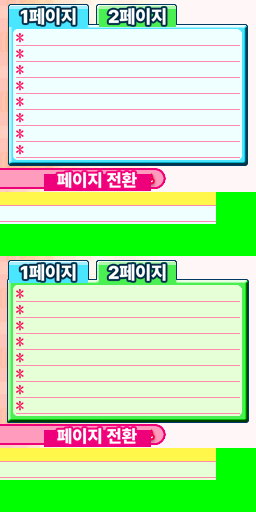
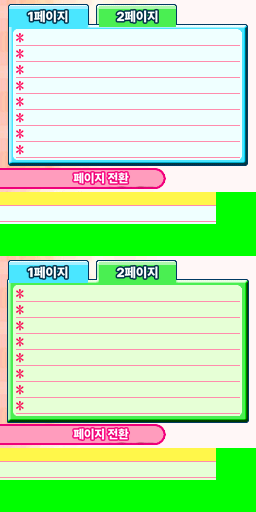
Image patch recreate

diff --git a/webtool/server_py/routes/files.py b/webtool/server_py/routes/files.py
@@ -413,6 +413,18 @@ def resolve_in_unpack(name, rel):
     return resolved
 
 
+def resolve_in_origin(name, rel):
+    """Same path-traversal-guarded resolution as resolve_in_unpack(), but
+    rooted at proj.origin_dir() - use this for browsing/preview so the tree
+    and raw decode always reflect the pristine ROM, never whatever the
+    upload/patch-sync write paths may have left in unpack_dir()."""
+    root = proj.origin_dir(name)
+    resolved = os.path.abspath(os.path.join(root, rel or ""))
+    if resolved != root and not resolved.startswith(root + os.sep):
+        raise ValueError("잘못된 경로입니다")
+    return resolved
+
+
 def get_all_patch_files():
     patch_dir = os.path.join(proj.REPO_ROOT, "image_patch")
     if not os.path.exists(patch_dir):
@@ -477,7 +489,7 @@ def tree():
         return jsonify({"error": "name은 필수입니다"}), 400
 
     try:
-        target = resolve_in_unpack(name, dir_)
+        target = resolve_in_origin(name, dir_)
         if not os.path.exists(target):
             return jsonify({"error": "디렉터리를 찾을 수 없습니다"}), 404
 
@@ -528,7 +540,7 @@ def raw():
             return send_file(patch_dict[patch_rel], mimetype="image/png")
 
         ext = os.path.splitext(rel_path)[1].lower()
-        target = resolve_in_unpack(name, rel_path)
+        target = resolve_in_origin(name, rel_path)
         if not os.path.exists(target):
             return jsonify({"error": "파일을 찾을 수 없습니다"}), 404
 
@@ -588,6 +600,19 @@ def raw():
                     with open(s2_path, "rb") as f:
                         s2_raw = f.read()
                     png = decode_soundmode_b_composite(tile_buf, pal_buf, screen_buf, s2_raw)
+                elif target_fname == "load_save_b_bg_page01c.bin":
+                    # Render composite: page01s/02s/03s (256x256 each) + fileselect01s (256x640) stacked
+                    screen_dir = os.path.dirname(resolved["screenPath"])
+                    s2_path = os.path.join(screen_dir, "load_save_b_bg_page02s.bin")
+                    s3_path = os.path.join(screen_dir, "load_save_b_bg_page03s.bin")
+                    s4_path = os.path.join(screen_dir, "load_save_b_bg_fileselect01s.bin")
+                    with open(s2_path, "rb") as f:
+                        s2_raw = f.read()
+                    with open(s3_path, "rb") as f:
+                        s3_raw = f.read()
+                    with open(s4_path, "rb") as f:
+                        s4_raw = f.read()
+                    png = decode_load_save_b_composite(tile_buf, pal_buf, screen_buf, s2_raw, s3_raw, s4_raw)
                 else:
                     n_entries = len(nbfc_image.load_screen(screen_buf))
                     width_override = known_width_override(os.path.basename(target), n_entries)
@@ -645,6 +670,13 @@ def upload_image():
         elif target_fname == "soundmode_b_bg_soundmode_b01c.bin":
             s2_path = os.path.join(os.path.dirname(resolved["screenPath"]), "soundmode_b_bg_soundmode_b02s.bin")
             tile_count = pack_soundmode_b(file.read(), target, resolved["palettePath"], resolved["screenPath"], s2_path)
+            return jsonify({"tileCount": tile_count})
+        elif target_fname == "load_save_b_bg_page01c.bin":
+            screen_dir = os.path.dirname(resolved["screenPath"])
+            s2_path = os.path.join(screen_dir, "load_save_b_bg_page02s.bin")
+            s3_path = os.path.join(screen_dir, "load_save_b_bg_page03s.bin")
+            s4_path = os.path.join(screen_dir, "load_save_b_bg_fileselect01s.bin")
+            tile_count = pack_load_save_b(file.read(), target, resolved["palettePath"], resolved["screenPath"], s2_path, s3_path, s4_path)
             return jsonify({"tileCount": tile_count})
 
         if resolved["mode"] != "full":
@@ -1454,6 +1486,98 @@ def pack_soundmode_b(png_bytes, target_path, pal_path, s1_path, s2_path):
     return len(tiles)
 
 
+def decode_load_save_b_composite(tile_buf, pal_buf, s1_buf, s2_buf, s3_buf, s4_buf):
+    """load_save_b_bg_page01c.bin's tileset is shared by FOUR screenmaps:
+    page01s/02s/03s (each a full 256x256 tab state - 1/2/3페이지 active) plus
+    fileselect01s (a taller 256x640 scrolling save-slot list with no baked-in
+    text). Stack all four vertically into one preview/edit canvas - the
+    inverse of pack_load_save_b."""
+    pngs = [
+        nbfc_image.decode_tilemap_png(tile_buf, pal_buf, s1_buf),
+        nbfc_image.decode_tilemap_png(tile_buf, pal_buf, s2_buf),
+        nbfc_image.decode_tilemap_png(tile_buf, pal_buf, s3_buf),
+        nbfc_image.decode_tilemap_png(tile_buf, pal_buf, s4_buf),
+    ]
+    ims = [Image.open(io.BytesIO(p)).convert("RGBA") for p in pngs]
+    total_h = sum(im.height for im in ims)
+    comp = Image.new("RGBA", (256, total_h), (0, 0, 0, 255))
+    y = 0
+    for im in ims:
+        comp.paste(im, (0, y))
+        y += im.height
+    buf = io.BytesIO()
+    comp.save(buf, format="PNG")
+    return buf.getvalue()
+
+
+def pack_load_save_b(png_bytes, target_path, pal_path, s1_path, s2_path, s3_path, s4_path):
+    """Reverse of decode_load_save_b_composite(): split the composite PNG
+    back into the four screenmap states (page01s/02s/03s at 256x256 each,
+    fileselect01s at 256x640) and rebuild ONE shared tile pool (8x8 tile
+    dedup dictionary, same technique as pack_soundmode_b) plus all FOUR
+    screenmaps together in a single call - keeps page01c.bin and its four
+    screenmap siblings mutually consistent."""
+    img = Image.open(io.BytesIO(png_bytes)).convert("RGBA")
+    px = img.load()
+
+    with open(pal_path, "rb") as f:
+        pal_raw = f.read()
+        if pal_raw[0] == 0x10:
+            pal_raw = lz10.decompress(pal_raw)
+        pal = nbfc_image.load_palette(pal_raw)[:256]
+
+    tile_dict = {}
+    tiles = []
+
+    def get_or_add_tile(t_bytes):
+        if t_bytes in tile_dict:
+            return tile_dict[t_bytes]
+        idx = len(tiles)
+        tile_dict[t_bytes] = idx
+        tiles.append(t_bytes)
+        return idx
+
+    def build_screen(y_offset, rows, cols=32):
+        entries = []
+        for r in range(rows):
+            for c in range(cols):
+                t_bytes = bytearray(64)
+                for py in range(8):
+                    for px_x in range(8):
+                        clr = px[c * 8 + px_x, y_offset + r * 8 + py]
+                        if clr[3] < 128 or clr[:3] == (0, 255, 0):
+                            ci = 0
+                        else:
+                            ci = nbfc_image.nearest_palette_index(clr[0], clr[1], clr[2], pal)
+                        t_bytes[py * 8 + px_x] = ci
+                entries.append(get_or_add_tile(bytes(t_bytes)))
+        return entries
+
+    s1_entries = build_screen(0, 32)
+    s2_entries = build_screen(256, 32)
+    s3_entries = build_screen(512, 32)
+    s4_entries = build_screen(768, 80)
+
+    raw_tiles = b"".join(tiles)
+    with open(target_path, "wb") as f:
+        f.write(lz10.compress(raw_tiles))
+
+    def write_screen(path, entries):
+        raw = bytearray(len(entries) * 2)
+        for i, val in enumerate(entries):
+            raw[i * 2] = val & 0xFF
+            raw[i * 2 + 1] = (val >> 8) & 0xFF
+        with open(path, "wb") as f:
+            f.write(lz10.compress(bytes(raw)))
+
+    write_screen(s1_path, s1_entries)
+    write_screen(s2_path, s2_entries)
+    write_screen(s3_path, s3_entries)
+    write_screen(s4_path, s4_entries)
+
+    return len(tiles)
+
+
 def apply_single_png_patch(name, png_bytes, rel_png_path, target_root=None):
     png_name = os.path.basename(rel_png_path)
     base = os.path.splitext(png_name)[0]
@@ -1516,6 +1640,12 @@ def apply_single_png_patch(name, png_bytes, rel_png_path, target_root=None):
     elif target_fname == "soundmode_b_bg_soundmode_b01c.bin":
         s2_path = os.path.join(os.path.dirname(resolved["screenPath"]), "soundmode_b_bg_soundmode_b02s.bin")
         tile_count = pack_soundmode_b(png_bytes, target, resolved["palettePath"], resolved["screenPath"], s2_path)
+    elif target_fname == "load_save_b_bg_page01c.bin":
+        screen_dir = os.path.dirname(resolved["screenPath"])
+        s2_path = os.path.join(screen_dir, "load_save_b_bg_page02s.bin")
+        s3_path = os.path.join(screen_dir, "load_save_b_bg_page03s.bin")
+        s4_path = os.path.join(screen_dir, "load_save_b_bg_fileselect01s.bin")
+        tile_count = pack_load_save_b(png_bytes, target, resolved["palettePath"], resolved["screenPath"], s2_path, s3_path, s4_path)
     else:
         if resolved["mode"] not in ("full", "borrowed_palette"):
             return {"file": rel_png_path, "ok": False, "error": "이 파일은 미리보기 전용입니다 (스크린맵이 없음)"}
@@ -1558,6 +1688,13 @@ def apply_single_png_patch(name, png_bytes, rel_png_path, target_root=None):
                         root_s2 = os.path.join(repo_unpack, os.path.relpath(s2_path, root))
                         with open(s2_path, "rb") as sf, open(root_s2, "wb") as df:
                             df.write(sf.read())
+                elif target_fname == "load_save_b_bg_page01c.bin":
+                    for sib_name in ("load_save_b_bg_page02s.bin", "load_save_b_bg_page03s.bin", "load_save_b_bg_fileselect01s.bin"):
+                        sib_path = os.path.join(os.path.dirname(target), sib_name)
+                        if os.path.exists(sib_path):
+                            root_sib = os.path.join(repo_unpack, os.path.relpath(sib_path, root))
+                            with open(sib_path, "rb") as sf, open(root_sib, "wb") as df:
+                                df.write(sf.read())
 
     return {
         "file": rel_png_path,

diff --git a/webtool/server_py/project.py b/webtool/server_py/project.py
@@ -43,6 +43,17 @@ def unpack_dir(name):
     return os.path.join(project_dir(name), "unpack")
 
 
+def origin_dir(name):
+    """Pristine, read-only reference tree for image browsing/preview -
+    unpack_dir() above is meant to stay untouched after extraction too, but
+    routes/files.py's image-patch write paths have historically written
+    straight into it (see ANALYSIS_NOTES.md 2026-09-09), so browsing reads
+    from this separate repo-root snapshot instead of trusting that
+    unpack_dir() is still pristine."""
+    assert_valid_name(name)
+    return os.path.join(REPO_ROOT, "unpack_origin")
+
+
 def script_dir(name):
     return os.path.join(unpack_dir(name), "data", "Script")
 
